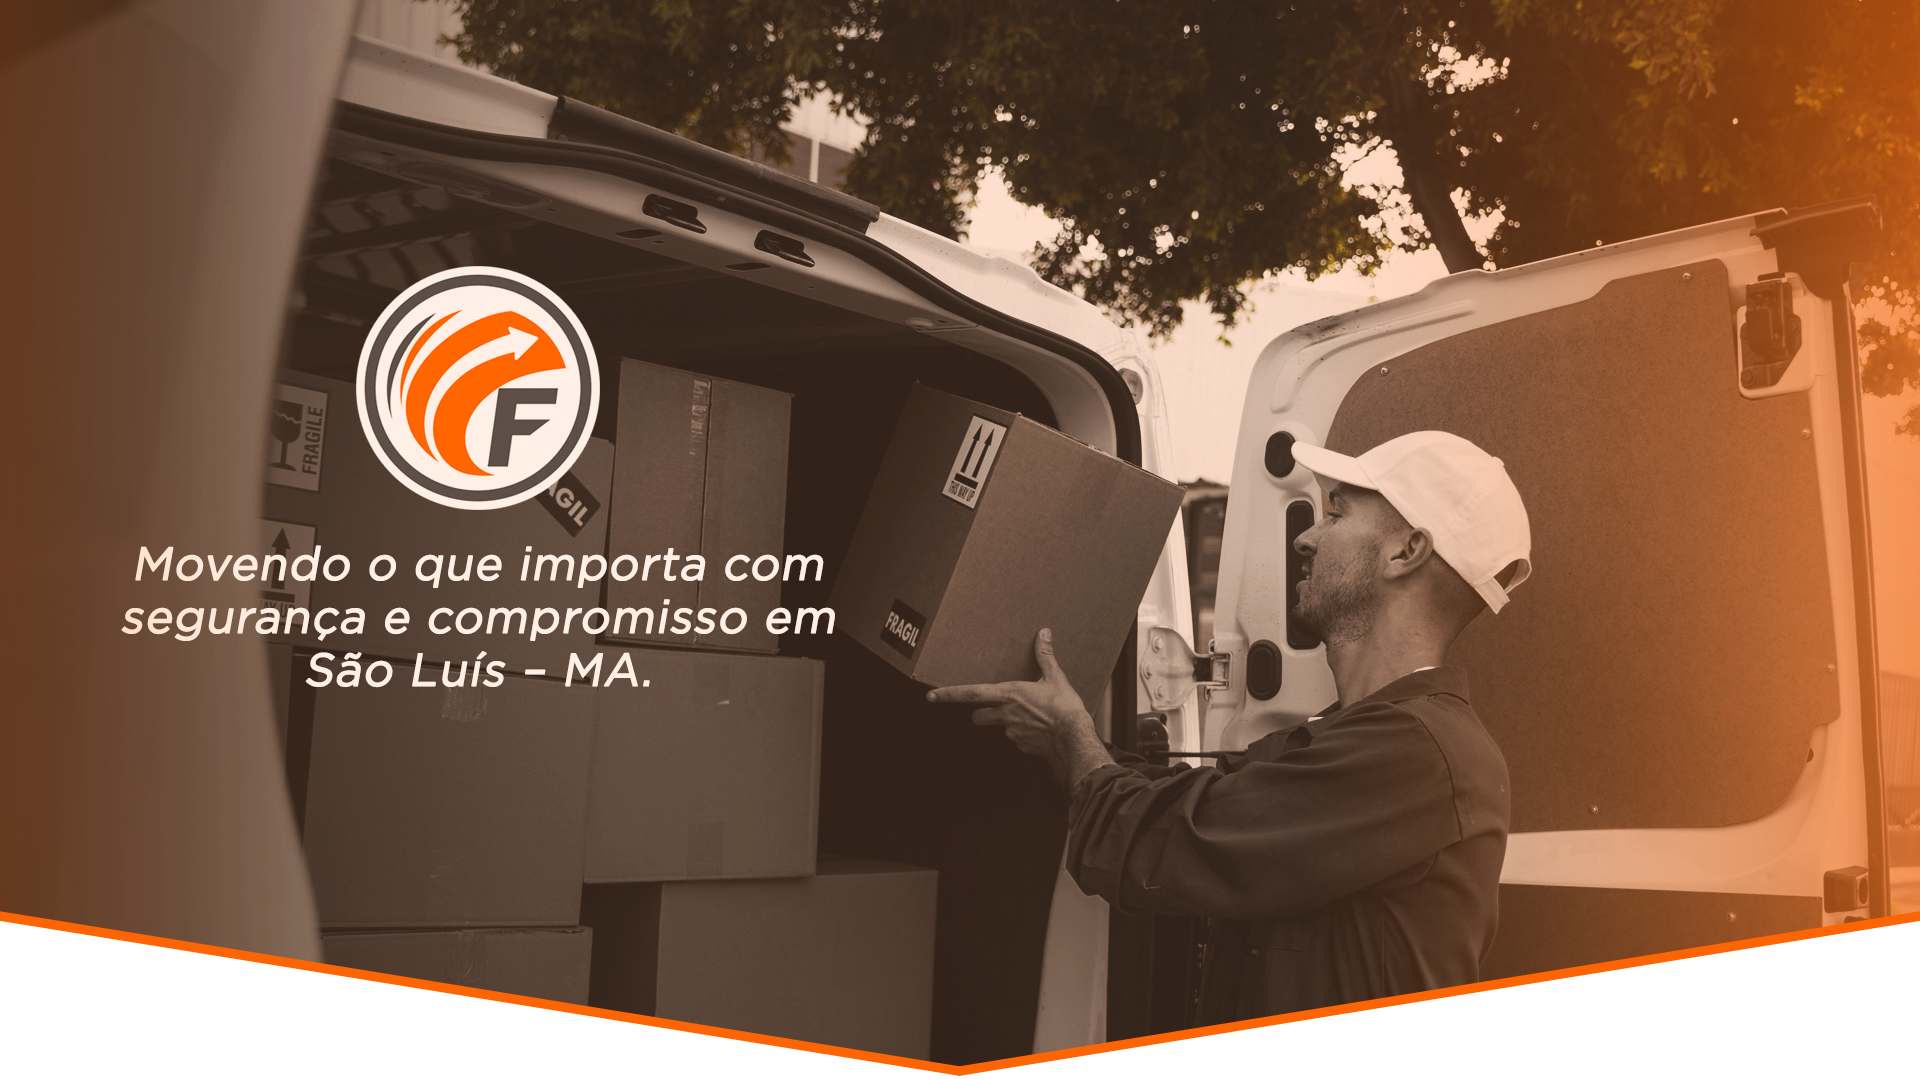
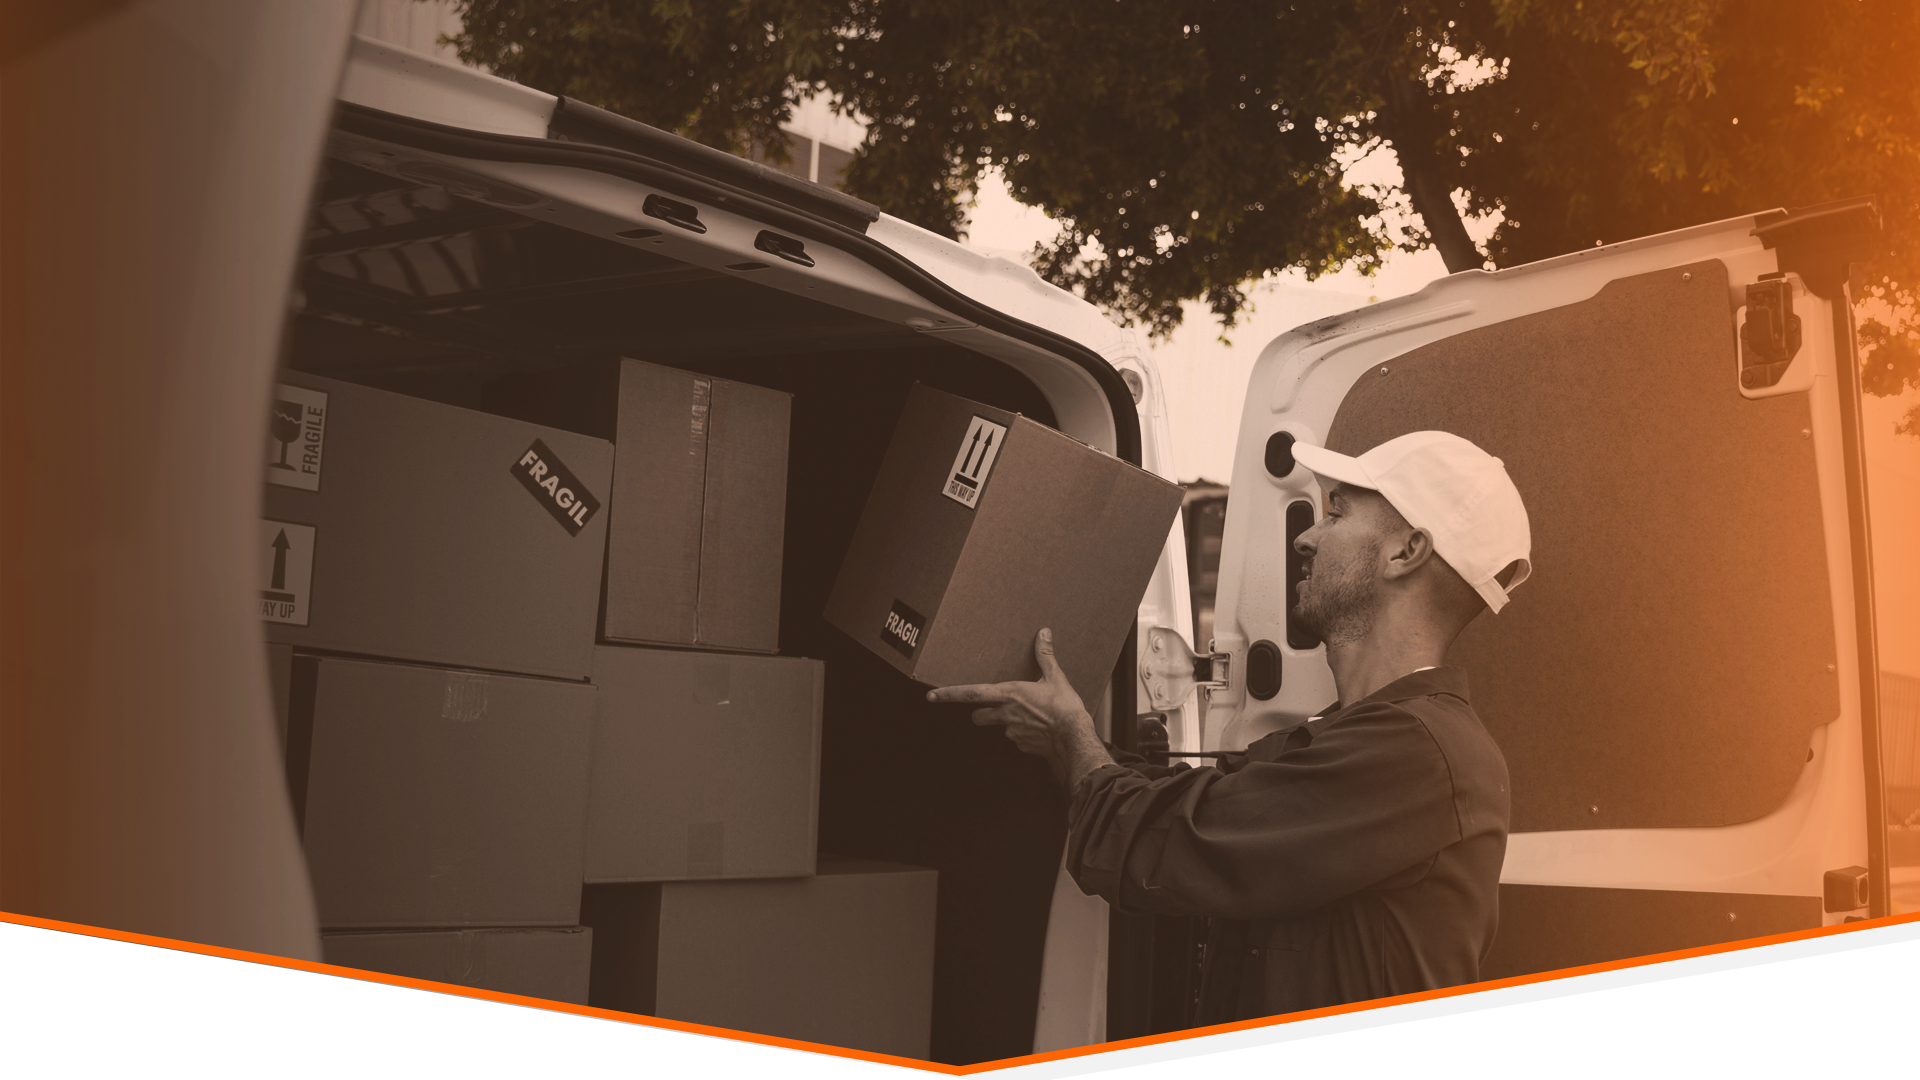
Add files via upload

Changed region(s): [[0.0625, 0.4889, 0.4375, 0.6417], [0.1875, 0.2444, 0.3125, 0.4889]]

diff --git a/index.html b/index.html
@@ -8,13 +8,29 @@
     <link href="https://cdn.jsdelivr.net/npm/bootstrap@5.3.7/dist/css/bootstrap.min.css" rel="stylesheet">
     <link href="https://cdn.jsdelivr.net/npm/bootstrap-icons@1.11.3/font/bootstrap-icons.css" rel="stylesheet">
     <link href="styles.css" rel="stylesheet">
+    <script async src="https://www.googletagmanager.com/gtag/js?id=AW-11505651249"></script>
+    <script>
+        window.dataLayer = window.dataLayer || [];
+        function gtag() { dataLayer.push(arguments); }
+        gtag('js', new Date());
+
+        gtag('config', 'AW-11505651249');
+    </script>
 </head>
 
 <body>
 
+    <nav class="navbar bg" style="background-color: #fc6404;">
+        <div class="container">
+            <a class="navbar-brand mx-auto" href="#">
+                <img src="imgs/FreteLog - Logo 2.png" alt="Bootstrap" width="30" height="28">
+            </a>
+        </div>
+    </nav>
+
     <div class="hero">
         <div class="row">
-            <img src="imgs/hero3.png" alt="" class="img-fluid">
+            <img src="imgs/hero2.png" alt="" class="img-fluid hero-img">
         </div>
     </div>
 
@@ -33,8 +49,9 @@
                     </h5>
 
                     <div class="d-flex flex-row flex-wrap justify-content-center mt-2 gap-2">
-                        <a href="https://wa.me/5598981628468?text=Olá,%20gostaria%20de%20fazer%20um%20orçamento%20com%20a%20FreteLog."
-                            class="btn btn-pulse-orange fw-bold px-4 py-2">
+                        <a href="https://wa.me/559881628468?text=Olá,%20gostaria%20de%20fazer%20um%20orçamento%20com%20a%20FreteLog."
+                            onclick="gtag('event', 'conversion', {'send_to': 'AW-11505651249/SEU_CODIGO_EVENTO'});"
+                            class="btn btn-pulse-orange fw-bold px-4 py-2" target="_blank">
                             <i class="bi bi-whatsapp"></i> Solicitar Orçamento
                         </a>
                     </div>

diff --git a/styles.css b/styles.css
@@ -4,7 +4,8 @@
   font-family: 'Poppins', sans-serif;
 }
 
-html, body {
+html,
+body {
   margin: 0;
   padding: 0;
   overflow-x: hidden;
@@ -83,6 +84,23 @@ html, body {
   font-size: 1.2rem !important;
   color: #4a4a4a !important;
   line-height: 1.6 !important;
+}
+
+.hero-img {
+  height: 220px;
+  width: 100%;
+  object-fit: cover;
+}
+
+/* Reduz no desktop */
+@media (min-width: 768px) {
+  .hero-img {
+    height: 200px;
+    width: 1325px;
+    margin-top: 10px;
+    margin: 10px auto;
+    border-radius: 30px;
+  }
 }
 
 
